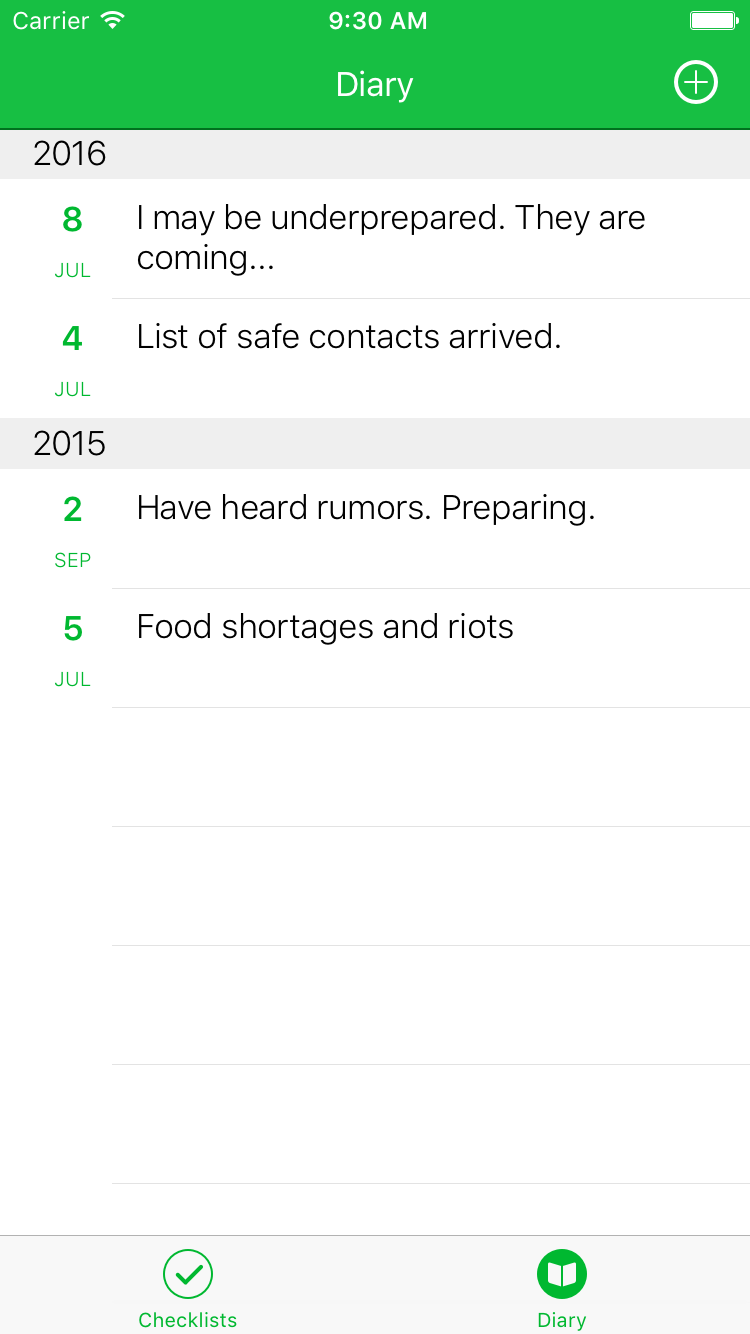
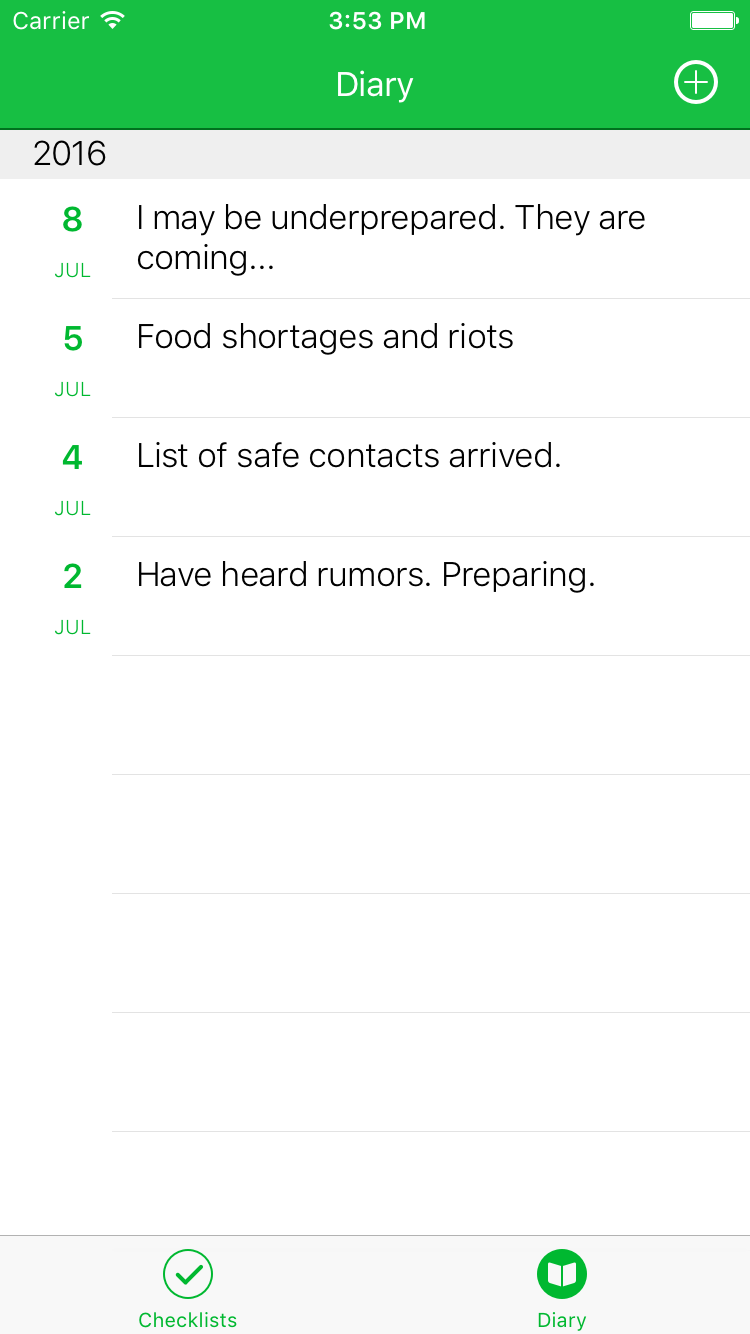
Final tweaks.

diff --git a/whats-new-in-storyboards/projects/final/Prepped/Prepped/SampleData.swift b/whats-new-in-storyboards/projects/final/Prepped/Prepped/SampleData.swift
@@ -89,8 +89,8 @@ struct DiaryEntry {
 }
 
 var diaryEntries = [
-  DiaryEntry(date:"2015-09-02", text: "Have heard rumors. Preparing."),
+  DiaryEntry(date:"2016-07-02", text: "Have heard rumors. Preparing."),
   DiaryEntry(date:"2016-07-04", text: "List of safe contacts arrived."),
-  DiaryEntry(date:"2015-07-05", text: "Food shortages and riots"),
+  DiaryEntry(date:"2016-07-05", text: "Food shortages and riots"),
   DiaryEntry(date:"2016-07-08", text: "I may be underprepared. They are coming...") ]
 

diff --git a/whats-new-in-storyboards/projects/starter/Prepped/Prepped/SampleData.swift b/whats-new-in-storyboards/projects/starter/Prepped/Prepped/SampleData.swift
@@ -89,8 +89,8 @@ struct DiaryEntry {
 }
 
 var diaryEntries = [
-  DiaryEntry(date:"2015-09-02", text: "Have heard rumors. Preparing."),
+  DiaryEntry(date:"2016-07-02", text: "Have heard rumors. Preparing."),
   DiaryEntry(date:"2016-07-04", text: "List of safe contacts arrived."),
-  DiaryEntry(date:"2015-07-05", text: "Food shortages and riots"),
+  DiaryEntry(date:"2016-07-05", text: "Food shortages and riots"),
   DiaryEntry(date:"2016-07-08", text: "I may be underprepared. They are coming...") ]
 
